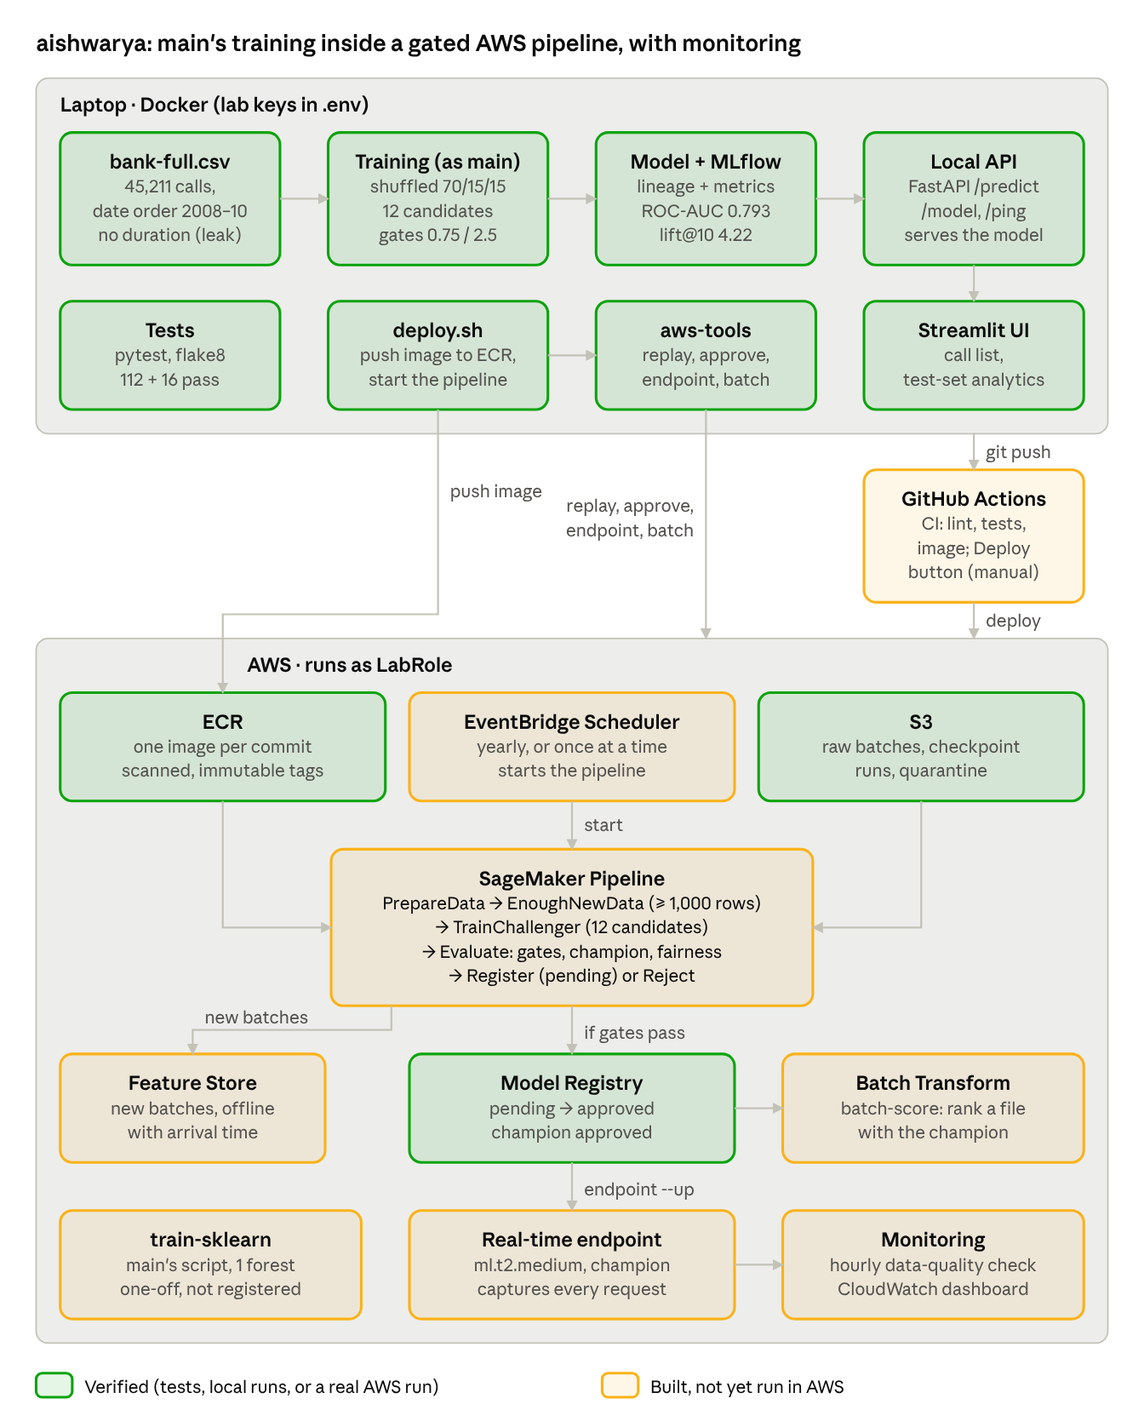
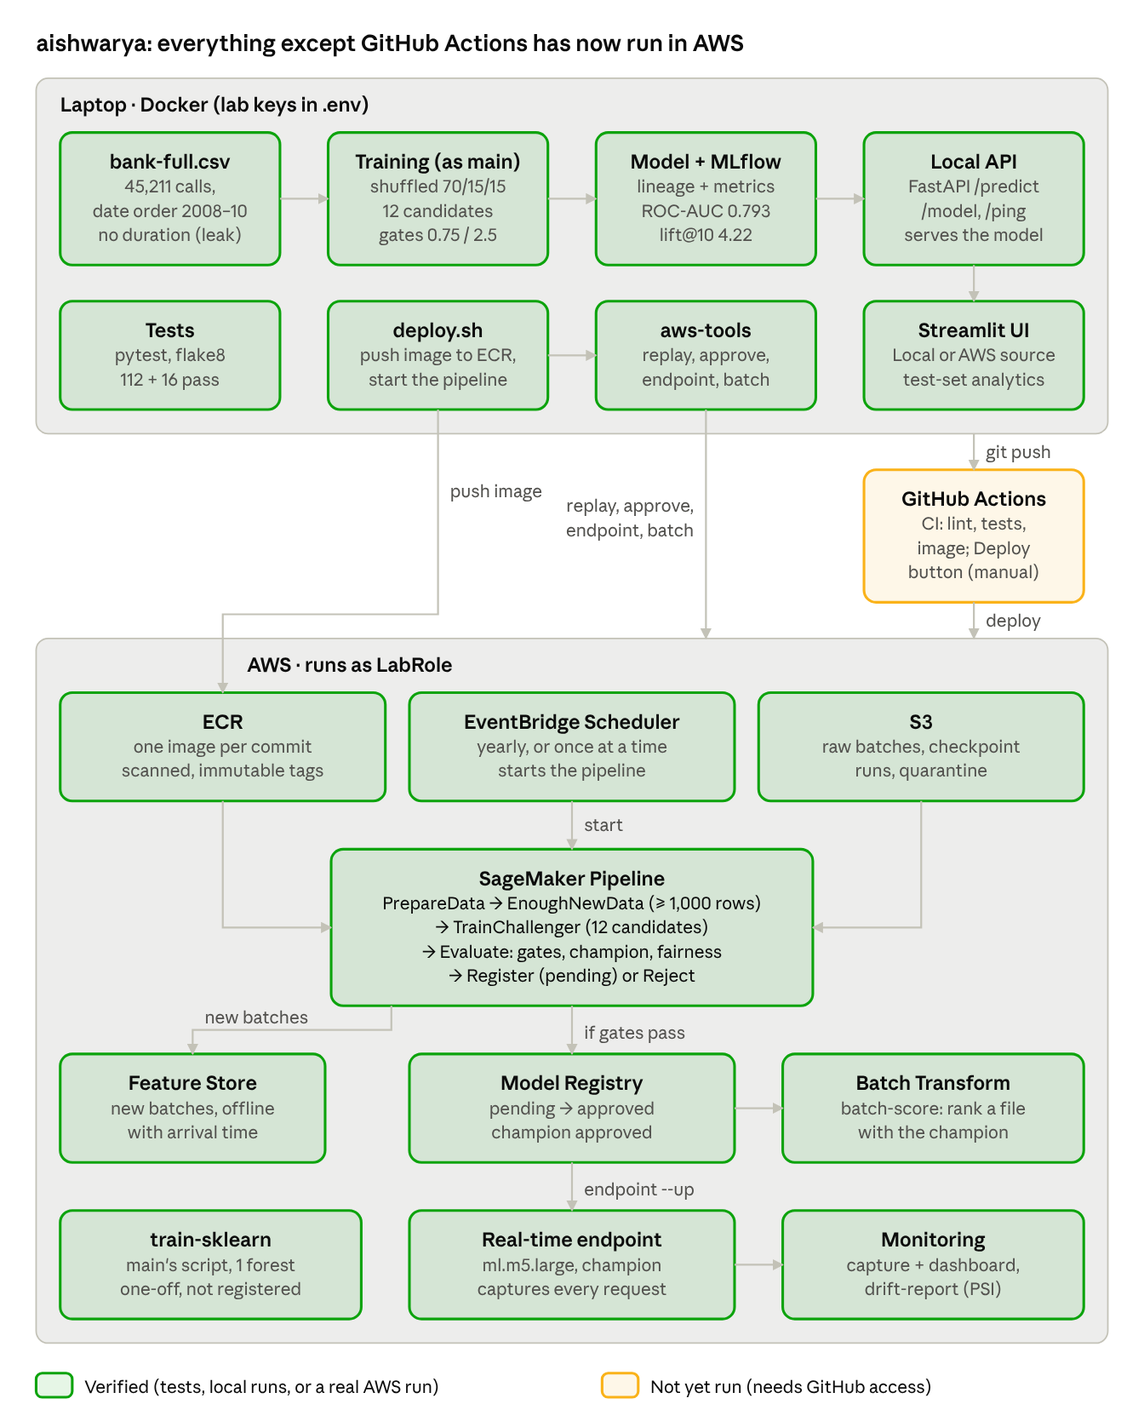
Replace Model Monitor with a drift report and default the endpoint to ml.m5.large
SageMaker Model Monitor's data-quality jobs are closed to new AWS customers,
so aws-tools drift-report compares the endpoint's captured requests with the
training data using the population stability index and saves the report to S3.
The lab's policy denies ml.t2.medium endpoints, so the endpoint defaults to
ml.m5.large. Docs and the diagrams are updated to match.

diff --git a/src/aws/endpoint.py b/src/aws/endpoint.py
@@ -1,25 +1,22 @@
 """
-Real-time endpoint for the champion, with data capture, Model Monitor and a dashboard.
+Real-time endpoint for the champion, with data capture and a CloudWatch dashboard.
 
 `endpoint --up` deploys the latest approved model on one instance, captures every
-request, sends sample traffic, sets a data-quality baseline from the training
-split and an hourly monitoring schedule, and creates a CloudWatch dashboard.
+request to S3, sends sample traffic and creates a CloudWatch dashboard;
+`aws-tools drift-report` then compares the captured requests with the training
+data (SageMaker Model Monitor's data-quality jobs are closed to new customers).
 An instance endpoint bills every hour it exists, so `endpoint --down` removes the
-schedule, endpoint, endpoint config, model and dashboard again.
+endpoint, endpoint config, model and dashboard again.
 Adapted from Anugrah Rastogi's deployment.py and monitoring.py on main.
 """
 
 import json
-import time
 from pathlib import Path
 
 import pandas as pd
 from botocore.exceptions import ClientError
-from sagemaker.model_monitor import CronExpressionGenerator, DefaultModelMonitor
-from sagemaker.model_monitor.dataset_format import DatasetFormat
-from sagemaker.session import Session
 
-from src.aws.config import DASHBOARD_NAME, ENDPOINT_NAME, MODEL_GROUP, MONITOR_SCHEDULE, AwsConfig
+from src.aws.config import DASHBOARD_NAME, ENDPOINT_NAME, MODEL_GROUP, AwsConfig
 from src.aws.registry import latest_packages
 
 TRAIN_SPLIT = Path('data/processed/train.parquet')
@@ -43,7 +40,7 @@ def model_inputs(frame: pd.DataFrame) -> pd.DataFrame:
 
 
 def endpoint_up(cfg: AwsConfig, aws, instance_type: str) -> None:
-    sagemaker, s3 = aws.client('sagemaker'), aws.client('s3')
+    sagemaker = aws.client('sagemaker')
     packages = latest_packages(sagemaker, MODEL_GROUP, 'Approved')
     if not packages:
         raise SystemExit("No approved model yet; run `approve` first")
@@ -62,7 +59,7 @@ def endpoint_up(cfg: AwsConfig, aws, instance_type: str) -> None:
     sagemaker.get_waiter('endpoint_in_service').wait(EndpointName=ENDPOINT_NAME)
     print("Endpoint in service. It bills every hour until `aws-tools endpoint --down`.")
 
-    # Sample traffic from the training split, so capture, monitoring and the dashboard have data
+    # Sample traffic from the training split, so capture, the drift report and the dashboard have data
     train = model_inputs(pd.read_parquet(TRAIN_SPLIT))
     runtime = aws.client('sagemaker-runtime')
     for record in train.sample(SAMPLE_REQUESTS, random_state=0).to_dict(orient='records'):
@@ -72,31 +69,13 @@ def endpoint_up(cfg: AwsConfig, aws, instance_type: str) -> None:
 
     aws.client('cloudwatch').put_dashboard(DashboardName=DASHBOARD_NAME, DashboardBody=dashboard_body(cfg.region))
     print(f"CloudWatch dashboard {DASHBOARD_NAME} created")
-
-    s3.put_object(Bucket=cfg.bucket, Key=cfg.key('monitoring', 'baseline', 'train.csv'),
-                  Body=train.to_csv(index=False).encode())
-    s3.put_object(Bucket=cfg.bucket, Key=cfg.key('monitoring', 'preprocessor.py'),
-                  Body=(Path(__file__).parent / 'monitor_preprocessor.py').read_bytes())
-    monitor = DefaultModelMonitor(role=cfg.role_arn, instance_count=1, instance_type='ml.m5.large',
-                                  volume_size_in_gb=20, max_runtime_in_seconds=1800,
-                                  sagemaker_session=Session(boto_session=aws))
-    print("Computing the data-quality baseline from the training split (about 5 minutes)...")
-    monitor.suggest_baseline(baseline_dataset=cfg.s3('monitoring', 'baseline', 'train.csv'),
-                             dataset_format=DatasetFormat.csv(header=True),
-                             output_s3_uri=cfg.s3('monitoring', 'baseline', 'results'), wait=True, logs=False)
-    monitor.create_monitoring_schedule(
-        monitor_schedule_name=MONITOR_SCHEDULE, endpoint_input=ENDPOINT_NAME,
-        record_preprocessor_script=cfg.s3('monitoring', 'preprocessor.py'),
-        output_s3_uri=cfg.s3('monitoring', 'reports'), statistics=monitor.baseline_statistics(),
-        constraints=monitor.suggested_constraints(), schedule_cron_expression=CronExpressionGenerator.hourly())
-    print(f"Monitoring schedule {MONITOR_SCHEDULE} runs hourly; reports go to {cfg.s3('monitoring', 'reports')}")
+    print("Check drift with `aws-tools drift-report`; remove everything with `aws-tools endpoint --down`.")
 
 
 def endpoint_down(aws) -> None:
     """Remove everything `endpoint --up` created; safe to run when parts are already gone."""
     sagemaker = aws.client('sagemaker')
-    steps = [(sagemaker.delete_monitoring_schedule, {'MonitoringScheduleName': MONITOR_SCHEDULE}),
-             (sagemaker.delete_endpoint, {'EndpointName': ENDPOINT_NAME}),
+    steps = [(sagemaker.delete_endpoint, {'EndpointName': ENDPOINT_NAME}),
              (sagemaker.delete_endpoint_config, {'EndpointConfigName': ENDPOINT_NAME}),
              (sagemaker.delete_model, {'ModelName': ENDPOINT_NAME}),
              (aws.client('cloudwatch').delete_dashboards, {'DashboardNames': [DASHBOARD_NAME]})]
@@ -106,15 +85,3 @@ def endpoint_down(aws) -> None:
             print(f"Deleted {next(iter(arguments.values()))}")
         except ClientError as exc:
             print(f"Skipped {next(iter(arguments.values()))}: {exc.response['Error']['Code']}")
-        if delete == sagemaker.delete_monitoring_schedule:
-            wait_until_schedule_gone(sagemaker)
-
-
-def wait_until_schedule_gone(sagemaker, attempts: int = 30) -> None:
-    """The endpoint cannot be deleted while its monitoring schedule still exists."""
-    for _ in range(attempts):
-        try:
-            sagemaker.describe_monitoring_schedule(MonitoringScheduleName=MONITOR_SCHEDULE)
-        except ClientError:
-            return
-        time.sleep(10)

diff --git a/src/aws/drift.py b/src/aws/drift.py
@@ -1,0 +1,86 @@
+"""
+Data drift report for the live endpoint, in place of SageMaker Model Monitor
+(its data-quality jobs are no longer offered to new AWS customers).
+
+Reads the requests the endpoint captured to S3 and compares every input column
+with the training data using the population stability index (PSI): below 0.1
+is stable, 0.1 to 0.2 a moderate shift, above 0.2 significant drift. The report
+is printed and saved next to the captured data.
+"""
+
+import base64
+import json
+import time
+from typing import Iterable
+
+import numpy as np
+import pandas as pd
+
+from src.aws.config import ENDPOINT_NAME, AwsConfig
+
+DRIFT_PSI, SHIFT_PSI = 0.2, 0.1
+BINS = 10
+# PSI is noisy on small samples, especially for columns with many categories
+MIN_RELIABLE_ROWS = 500
+
+
+def captured_instances(lines: Iterable[str]) -> pd.DataFrame:
+    """Customers from SageMaker data-capture lines (one JSON record per captured request)."""
+    rows = []
+    for line in lines:
+        if line.strip():
+            request = json.loads(line)['captureData']['endpointInput']
+            data = request['data']
+            if request.get('encoding') == 'BASE64':
+                data = base64.b64decode(data).decode()
+            rows += json.loads(data)['instances']
+    return pd.DataFrame(rows)
+
+
+def psi(reference: pd.Series, current: pd.Series) -> float:
+    """Population stability index of one column: deciles of the reference, or its categories."""
+    if pd.api.types.is_numeric_dtype(reference):
+        # Bin edges at the reference deciles (minimum included, so a constant column still
+        # separates its value from anything above it)
+        deciles = np.unique(np.quantile(reference, np.linspace(0, 1, BINS + 1)))
+        edges = np.concatenate([[-np.inf], deciles[:-1] if len(deciles) > 1 else deciles, [np.inf]])
+        expected = pd.cut(reference, edges).value_counts(normalize=True, sort=False)
+        actual = pd.cut(current, edges).value_counts(normalize=True, sort=False)
+    else:
+        expected, actual = reference.value_counts(normalize=True), current.value_counts(normalize=True)
+        categories = expected.index.union(actual.index)
+        expected, actual = expected.reindex(categories, fill_value=0), actual.reindex(categories, fill_value=0)
+    expected, actual = expected.clip(lower=1e-4), actual.clip(lower=1e-4)
+    return float(((actual - expected) * np.log(actual / expected)).sum())
+
+
+def drift_table(reference: pd.DataFrame, current: pd.DataFrame) -> pd.DataFrame:
+    """PSI and status per input column, most drifted first."""
+    scores = pd.Series({column: psi(reference[column], current[column]) for column in current.columns
+                        if column in reference.columns}, name='psi')
+    status = pd.cut(scores, [-np.inf, SHIFT_PSI, DRIFT_PSI, np.inf], labels=['stable', 'moderate shift', 'drift'])
+    return pd.DataFrame({'psi': scores.round(3), 'status': status}).sort_values('psi', ascending=False)
+
+
+def drift_report(cfg: AwsConfig, aws, reference: pd.DataFrame) -> pd.DataFrame:
+    """Compare everything the endpoint has captured with the reference data; save the report to S3."""
+    s3 = aws.client('s3')
+    prefix = cfg.key('monitoring', 'capture', ENDPOINT_NAME) + '/'
+    keys = [item['Key'] for page in s3.get_paginator('list_objects_v2').paginate(Bucket=cfg.bucket, Prefix=prefix)
+            for item in page.get('Contents', [])]
+    if not keys:
+        raise SystemExit("No captured requests yet; run `aws-tools endpoint --up` first")
+    lines = [line for key in keys
+             for line in s3.get_object(Bucket=cfg.bucket, Key=key)['Body'].read().decode().splitlines()]
+    current = captured_instances(lines)
+    table = drift_table(reference, current)
+    report_key = cfg.key('monitoring', 'reports', f'drift-{time.strftime("%Y%m%d-%H%M%S")}.json')
+    s3.put_object(Bucket=cfg.bucket, Key=report_key, Body=json.dumps(
+        {'captured_customers': len(current), 'columns': table.reset_index(names='column').astype(
+            {'status': str}).to_dict(orient='records')}, indent=2).encode())
+    print(f"Compared {len(current)} captured customers with {len(reference)} training rows; "
+          f"report saved to s3://{cfg.bucket}/{report_key}")
+    if len(current) < MIN_RELIABLE_ROWS:
+        print(f"Note: fewer than {MIN_RELIABLE_ROWS} captured customers, so PSI values are noisy "
+              "(columns with many categories, such as job and month, look drifted by chance).")
+    return table

diff --git a/tests/aws/test_aws_extensions.py b/tests/aws/test_aws_extensions.py
@@ -1,9 +1,10 @@
 """
-Tests for batch scoring, the Feature Store, the real-time endpoint and its monitoring,
+Tests for batch scoring, the Feature Store, the real-time endpoint and the drift report,
 without calling AWS (botocore Stubber). Run in the aws-tools image:
     docker compose run --rm aws-test
 """
 
+import base64
 import json
 from types import SimpleNamespace
 
@@ -16,7 +17,7 @@ pytest.importorskip('sagemaker')
 from src.aws import endpoint, feature_store  # noqa: E402
 from src.aws.batch import CHUNK, from_responses, to_requests  # noqa: E402
 from src.aws.config import AwsConfig  # noqa: E402
-from src.aws.monitor_preprocessor import preprocess_handler  # noqa: E402
+from src.aws.drift import captured_instances, drift_table, psi  # noqa: E402
 
 ACCOUNT = '1' * 12
 CONFIG = AwsConfig(region='us-east-1', account=ACCOUNT, role_arn=f'arn:aws:iam::{ACCOUNT}:role/LabRole',
@@ -79,9 +80,7 @@ def test_endpoint_down_removes_everything_even_when_parts_are_gone():
     sagemaker, cloudwatch = client('sagemaker'), client('cloudwatch')
     aws = SimpleNamespace(client=lambda name: {'sagemaker': sagemaker, 'cloudwatch': cloudwatch}[name])
     with Stubber(sagemaker) as stub, Stubber(cloudwatch) as cw:
-        stub.add_client_error('delete_monitoring_schedule', 'ResourceNotFound')
-        stub.add_client_error('describe_monitoring_schedule', 'ResourceNotFound')
-        stub.add_response('delete_endpoint', {})
+        stub.add_client_error('delete_endpoint', 'ValidationException')
         stub.add_response('delete_endpoint_config', {})
         stub.add_response('delete_model', {})
         cw.add_response('delete_dashboards', {})
@@ -90,13 +89,40 @@ def test_endpoint_down_removes_everything_even_when_parts_are_gone():
         cw.assert_no_pending_responses()
 
 
-def test_monitor_preprocessor_checks_the_first_customer_of_a_request():
-    customer = make_raw_df(n=2).drop(columns=['y', 'duration']).to_dict(orient='records')
-    record = SimpleNamespace(endpoint_input=SimpleNamespace(data=json.dumps({'instances': customer})))
-    assert preprocess_handler(record) == json.loads(json.dumps(customer[0]))
+def capture_line(customers, base64_encoded=False):
+    data = json.dumps({'instances': customers})
+    if base64_encoded:
+        data = base64.b64encode(data.encode()).decode()
+    return json.dumps({'captureData': {'endpointInput': {'data': data,
+                                                         'encoding': 'BASE64' if base64_encoded else 'JSON'}}})
 
 
-def test_monitoring_baseline_uses_model_inputs_only():
+def test_captured_requests_become_one_row_per_customer():
+    customers = make_raw_df(n=3).drop(columns=['y', 'duration']).to_dict(orient='records')
+    lines = [capture_line(customers[:2]), '', capture_line(customers[2:], base64_encoded=True)]
+    frame = captured_instances(lines)
+    assert len(frame) == 3 and list(frame['age']) == [30, 31, 32]
+
+
+def test_psi_is_near_zero_for_the_same_data_and_high_for_shifted_data():
+    reference = pd.Series(range(1000))
+    assert psi(reference, reference) < 0.01
+    assert psi(reference, reference + 600) > 0.2
+    constant = pd.Series([1200] * 50)
+    assert psi(constant, constant) < 0.01 and psi(constant, constant + 1) > 0.2
+    jobs = pd.Series(['admin.'] * 80 + ['retired'] * 20)
+    assert psi(jobs, jobs) < 0.01 and psi(jobs, pd.Series(['retired'] * 80 + ['student'] * 20)) > 0.2
+
+
+def test_drift_table_flags_the_shifted_column_first():
+    reference = make_raw_df(n=200).assign(balance=range(0, 2000, 10))
+    current = reference.assign(balance=reference['balance'] + 100000)
+    table = drift_table(reference, current[['age', 'balance']])
+    assert table.index[0] == 'balance' and table.loc['balance', 'status'] == 'drift'
+    assert table.loc['age', 'status'] == 'stable'
+
+
+def test_sample_traffic_uses_model_inputs_only():
     assert list(endpoint.model_inputs(make_raw_df(n=2)).columns) == [
         c for c in make_raw_df(n=2).columns if c not in ('y', 'duration')]
 

diff --git a/src/aws/cli.py b/src/aws/cli.py
@@ -14,8 +14,9 @@ AWS as LabRole instead. Run inside the aws-tools container:
     pull-model       download the champion for the local API
     smoke-test       deploy the champion to a serverless endpoint, score one record, delete it
     schedule         run the pipeline once at a time, yearly, or turn the schedule off
-    endpoint         --up: champion on a real-time endpoint with monitoring and a dashboard
+    endpoint         --up: champion on a real-time endpoint with data capture and a dashboard
                      (bills hourly); --down: remove all of it
+    drift-report     compare the endpoint's captured requests with the training data (PSI)
     batch-score      score a CSV of customers with the champion (Batch Transform)
     train-sklearn    main's cloud training: one random forest in AWS's scikit-learn container
 """
@@ -33,6 +34,7 @@ from sagemaker.workflow.pipeline_context import PipelineSession
 
 from src.aws.batch import batch_score
 from src.aws.config import MODEL_GROUP, PIPELINE_NAME, AwsConfig, session
+from src.aws.drift import drift_report
 from src.aws.endpoint import endpoint_down, endpoint_up
 from src.aws.feature_store import ensure_feature_group
 from src.aws.sklearn_training import train_sklearn
@@ -240,7 +242,10 @@ def main() -> None:
     endpoint_state = endpoint_args.add_mutually_exclusive_group(required=True)
     endpoint_state.add_argument('--up', action='store_true')
     endpoint_state.add_argument('--down', action='store_true')
-    endpoint_args.add_argument('--instance-type', default='ml.t2.medium', help='about $1.10 per day while up')
+    # The lab allows ml.m5.large for endpoints (ml.t2.medium is denied by its policy)
+    endpoint_args.add_argument('--instance-type', default='ml.m5.large', help='about $0.12 per hour while up')
+    drift_args = commands.add_parser('drift-report')
+    drift_args.add_argument('--reference', default='data/processed/train.parquet')
     batch_args = commands.add_parser('batch-score')
     batch_args.add_argument('--input', default='data/processed/test.parquet', help='CSV (;-separated) or Parquet')
     batch_args.add_argument('--output', default='batch_scores.csv')
@@ -269,6 +274,9 @@ def main() -> None:
             endpoint_up(cfg, aws, args.instance_type)
         else:
             endpoint_down(aws)
+    elif args.command == 'drift-report':
+        reference = pd.read_parquet(args.reference).drop(columns=['y', 'duration'], errors='ignore')
+        print(drift_report(cfg, aws, reference).to_string())
     elif args.command == 'batch-score':
         batch(cfg, aws, args.input, args.output)
     elif args.command == 'train-sklearn':

diff --git a/src/aws/config.py b/src/aws/config.py
@@ -15,9 +15,8 @@ PIPELINE_NAME = 'bank-marketing-retrain'
 MODEL_GROUP = 'bank-marketing-models'
 ECR_REPOSITORY = 'aai540-bank-marketing'
 FEATURE_GROUP = 'bank-marketing-batches'
-# Real-time endpoint for the champion, with its monitoring schedule and dashboard
+# Real-time endpoint for the champion and its CloudWatch dashboard
 ENDPOINT_NAME = 'bank-marketing-live'
-MONITOR_SCHEDULE = 'bank-marketing-data-quality'
 DASHBOARD_NAME = 'bank-marketing'
 
 

diff --git a/docs/aws.md b/docs/aws.md
@@ -17,7 +17,8 @@ aws-tools schedule     ------------>  EventBridge Scheduler  ->  pipeline run:
 aws-tools approve / rollback  ----->  Model Registry "bank-marketing-models"
 aws-tools pull-model  <------------  champion model.tar.gz  ->  docker compose up api
 aws-tools smoke-test  ------------>  serverless endpoint (created, called, deleted)
-aws-tools endpoint --up/--down --->  real-time endpoint + data capture + Model Monitor + CloudWatch dashboard
+aws-tools endpoint --up/--down --->  real-time endpoint + data capture + CloudWatch dashboard
+aws-tools drift-report  --------->  PSI drift report: captured requests vs training data
 aws-tools batch-score  ----------->  Batch Transform job with the champion
 aws-tools train-sklearn  --------->  main's training: one random forest in AWS's scikit-learn container
 PrepareData (each run)  ---------->  Feature Store "bank-marketing-batches" (new batches, offline store)
@@ -36,7 +37,8 @@ GitHub Actions "Deploy to AWS"  -->  scripts/deploy.sh or rollback, run on deman
 | `src/aws/cli.py` | aws-tools | The commands below |
 | `src/aws/registry.py` | both | Champion lookup |
 | `src/aws/feature_store.py` | aws-tools, SageMaker Processing | Feature group creation (adapted from main) and batch writes |
-| `src/aws/endpoint.py`, `monitor_preprocessor.py` | aws-tools | Real-time endpoint, data capture, Model Monitor, dashboard (adapted from main) |
+| `src/aws/endpoint.py` | aws-tools | Real-time endpoint, data capture, CloudWatch dashboard (adapted from main) |
+| `src/aws/drift.py` | aws-tools | Drift report on captured requests (replaces Model Monitor, closed to new AWS customers) |
 | `src/aws/batch.py` | aws-tools | Batch Transform scoring (adapted from main) |
 | `src/aws/sklearn_training.py`, `sklearn/train.py` | aws-tools, SageMaker Training | main's scikit-learn container training (script unchanged from main) |
 | `.github/workflows/deploy.yml` | GitHub Actions | Manual deploy or rollback with lab keys from repository secrets |
@@ -51,7 +53,7 @@ GitHub Actions "Deploy to AWS"  -->  scripts/deploy.sh or rollback, run on deman
 | `runs/<execution id>/{train,eval,report,evaluation}/` | Per-run dataset version and decision |
 | `models/` | Training job outputs (`model.tar.gz`, MLflow run) |
 | `feature-store/` | Offline store of the feature group: every new batch with its arrival time |
-| `monitoring/capture/`, `monitoring/baseline/`, `monitoring/reports/` | Captured endpoint traffic, training baseline, hourly data-quality reports |
+| `monitoring/capture/`, `monitoring/reports/` | Captured endpoint traffic and drift reports |
 | `batch/<job>/` | Batch Transform input and output |
 | `processed/`, `sklearn-models/` | Splits uploaded by `train-sklearn` and its model output |
 
@@ -89,14 +91,18 @@ docker compose run --rm aws-tools schedule --off                         # remov
 docker compose run --rm aws-tools pull-model && docker compose up api
 docker compose run --rm aws-tools rollback                   # if the champion misbehaves
 docker compose run --rm aws-tools batch-score                # rank the test split with the champion -> batch_scores.csv
-docker compose run --rm aws-tools endpoint --up              # live endpoint + monitoring + dashboard (bills hourly)
+docker compose run --rm aws-tools endpoint --up              # live endpoint + capture + dashboard (bills hourly)
+docker compose run --rm aws-tools drift-report               # captured requests vs training data (PSI)
 docker compose run --rm aws-tools endpoint --down            # ALWAYS run when finished
 docker compose run --rm aws-tools train-sklearn              # main's scikit-learn container training
 ```
 
 **Cost:** pipeline runs, batch scoring and `train-sklearn` cost cents and leave nothing
-running. `endpoint --up` runs an `ml.t2.medium` instance (about $1.10 per day) plus an
-hourly monitoring job (about $0.12 per run) until `endpoint --down`.
+running. `endpoint --up` runs an `ml.m5.large` instance (about $0.12 per hour, $2.80 per day)
+until `endpoint --down`; the lab's policy denies `ml.t2.medium`. SageMaker Model
+Monitor's data-quality jobs are closed to new customers, so `drift-report` compares
+the captured requests with the training data instead (PSI; reliable from about 500
+captured customers).
 
 **GitHub "Deploy to AWS" button** (Actions tab, `main` only): set the repository secrets
 `AWS_ACCESS_KEY_ID`, `AWS_SECRET_ACCESS_KEY` and `AWS_SESSION_TOKEN` to fresh lab keys,

diff --git a/README.md b/README.md
@@ -417,7 +417,7 @@ lab runbook are in [docs/aws.md](docs/aws.md).
 
 - **Pipeline** (`src/aws/pipeline.py`): prepare data, skip if there is too little new data, train a challenger, compare it with the champion on data neither has seen, then register it pending approval or reject it with reasons.
 - **Serving** (`src/serving/app.py`): one FastAPI app answers SageMaker (`/ping`, `/invocations`) and local clients (`/predict`); every prediction returns the model's run, commit and threshold.
-- **Operations** (`aws-tools`, run in Docker with the lab keys in `.env`): `check`, `replay`, `deploy-pipeline`, `approve`, `rollback`, `pull-model`, `smoke-test`, `schedule`, `endpoint --up/--down` (real-time endpoint with Model Monitor and a CloudWatch dashboard), `batch-score` (Batch Transform) and `train-sklearn` (main's scikit-learn container training). PrepareData also writes each new batch to a Feature Store group.
+- **Operations** (`aws-tools`, run in Docker with the lab keys in `.env`): `check`, `replay`, `deploy-pipeline`, `approve`, `rollback`, `pull-model`, `smoke-test`, `schedule`, `endpoint --up/--down` (real-time endpoint with data capture and a CloudWatch dashboard), `drift-report` (captured requests vs training data, PSI), `batch-score` (Batch Transform) and `train-sklearn` (main's scikit-learn container training). PrepareData also writes each new batch to a Feature Store group.
 - **CI** (`.github/workflows/ci-cd.yml`): lint, tests and an image build on every push.
 - **CD** (`.github/workflows/deploy.yml`): a manual "Deploy to AWS" button on `main` that runs `scripts/deploy.sh` or rolls back the champion, using lab keys from repository secrets.
 
